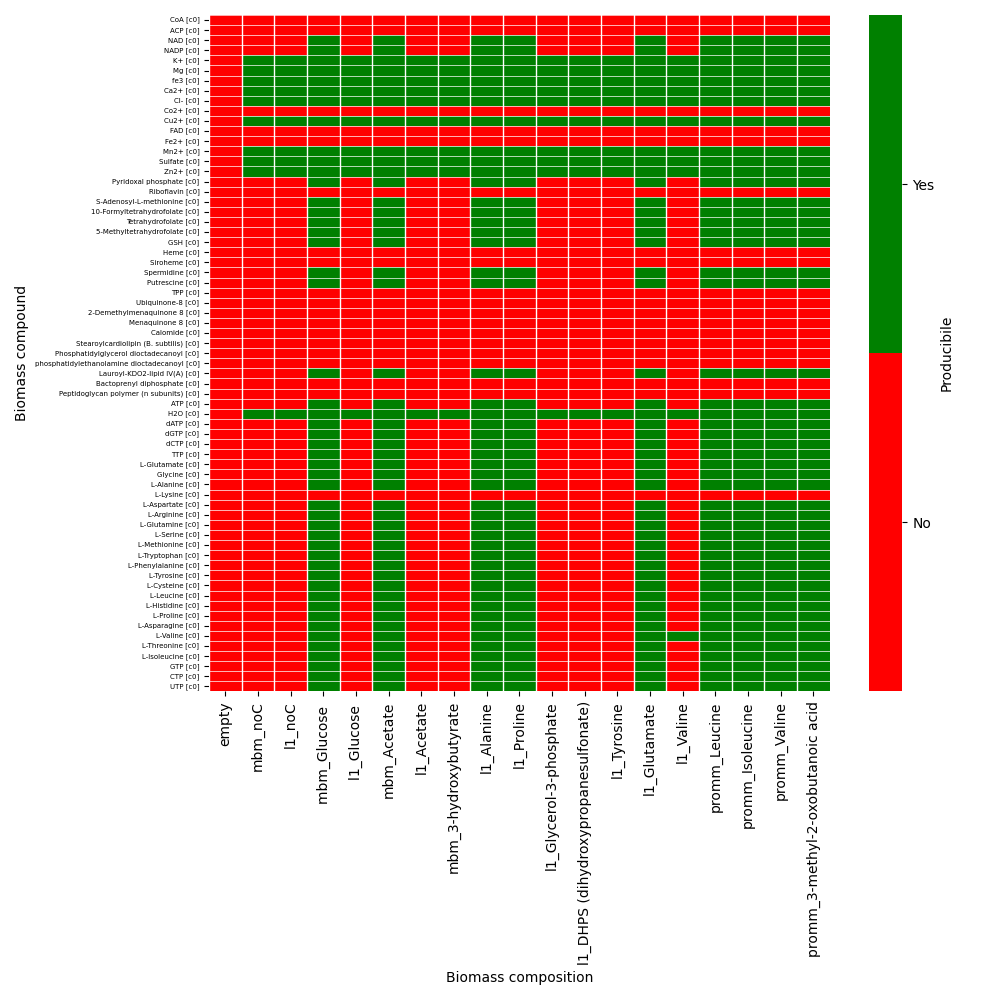
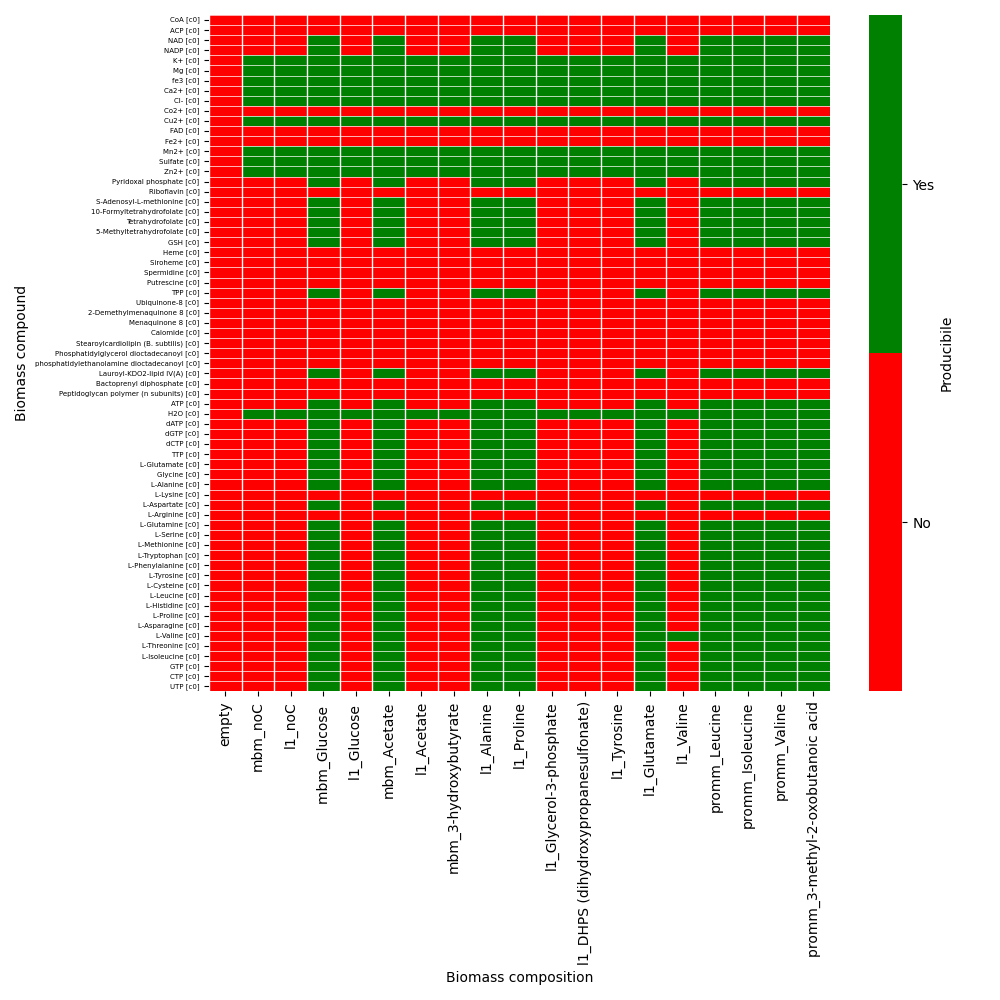
Merge pull request #144 from segrelab/fix_thiamine_biosynth
Fix most of thiamine biosynthesis

Pull request: Fix most of thiamine biosynthesis
#### Main improvements in this PR:

This pull request

- Removes rxn02305_c0 for misrepresenting bacterial thiamine biosynthesis
- Removes cpd02654_c0 (4-Methyl-5--2-phosphoethyl-thiazole)
- Removes rxn23043_c0 for misrepresenting thiamine monophosphate synthesis
- Adds new reaction rxn16823_c0: 2-[(2R,5Z)-2-Carboxy-4-methylthiazol-5(2H)-ylidene]ethyl phosphate -> 2-(2-Carboxy-4-methylthiazol-5-yl)ethyl phosphate
- Edits rxn27289_c0 to be: Iminoglycine + 1-deoxy-D-xylulose5-phosphate + L-Cysteine + ATP + Reducedferredoxin => 2-[(2R,5Z)-2-Carboxy-4-methylthiazol-5(2H)-ylidene]ethyl phosphate + L-Alanine + AMP + PP<sub>i</sub> + 2 H<sub>2</sub>O + Oxidizedferredoxin
- Changes the GPR of rxn27289_c0 to TK37_RS12770 and TK37_RS10915 and TK37_RS10910
- Changes the ID of rxn27289_c0 to thiazol_synth
- Removes cpd28259_c0 (Thiocarboxylated-ThiS-proteins)
- Removes rxn25839_c0 (made obsolete by changes to rxn27289_c0)
- Removes cpd22312_c0 (Adenylated-ThiS-Proteins)
- Makes rxn23589_c0 irreversible in the opposite direction
- Adds new metabolite cpd01042_e0
- Adds new reaction cpd01042_transport: cpd01042_c0 <-> cpd01042_e0
- Adds new reaction EX_cpd01042_e0: cpd0142_e0 <->

These changes allow the model to produce thiamine (technically thiamine pyrophosphate AKA TPP AKA cpd00056) by completing the thiamine biosynthesis pathway
[…]

diff --git a/test/test_files/test_results/README.md b/test/test_files/test_results/README.md
@@ -2,6 +2,6 @@
 
 The test results shown here were obtained by the GitHub Actions run in:
 
-- **PR #143** (CUSTOM-CI)
+- **PR #144** (CUSTOM-CI)
 
 The results will be updated by any subsequent pull request. Summary results are shown as a comment in the corresponding pull request.